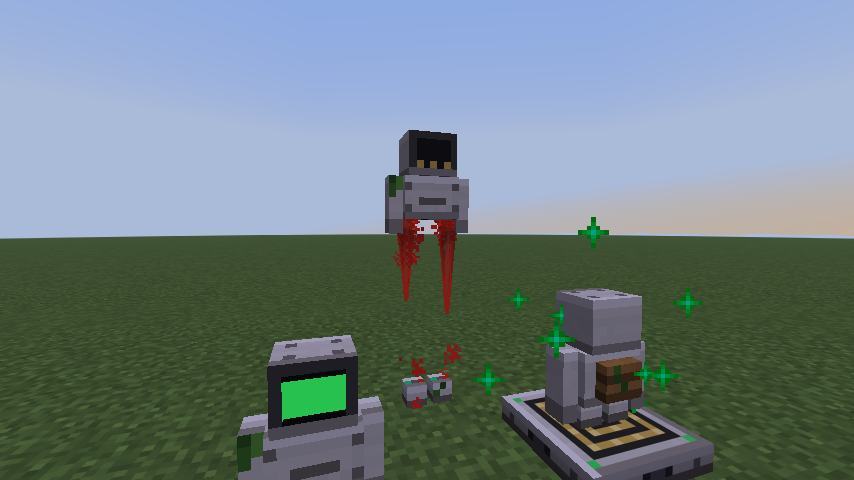
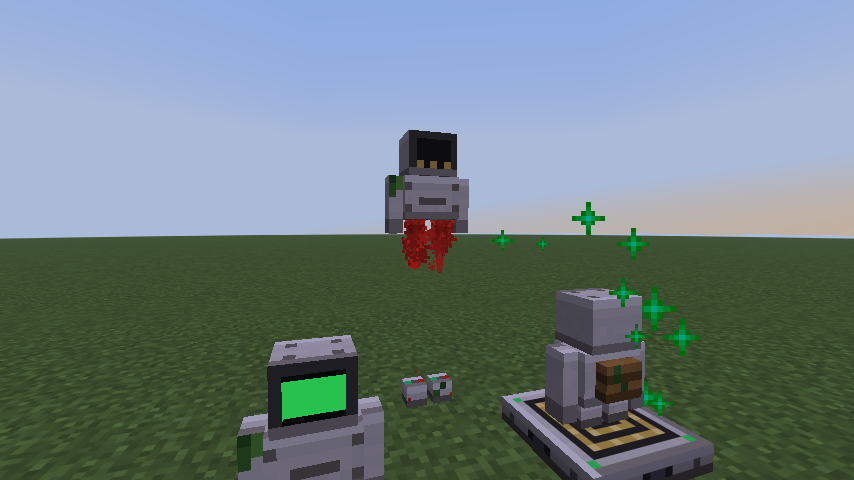
A soldered device says what it is under the mouse (the user's: the golem's robotics device is no item, so it had no tooltip): its name, that it's soldered on, and what it does, wrapped as an item's hint, from its board's layout (BoardLayout.solderedKind: any layout's soldered devices, not the golem'

diff --git a/common/src/client/java/com/payonel/modularcomputers/client/screen/CaseScreen.java b/common/src/client/java/com/payonel/modularcomputers/client/screen/CaseScreen.java
@@ -303,6 +303,46 @@ public final class CaseScreen extends AbstractContainerScreen<CaseMenu> {
 			graphics.setComponentTooltipForNextFrame(font, powerTooltip(), mouseX, mouseY);
 		}
 		busButtonTip(mouseX, mouseY).ifPresent(tip -> graphics.setTooltipForNextFrame(font, tip, mouseX, mouseY));
+		if (menu.getCarried().isEmpty()) {
+			solderedTooltip(mouseX, mouseY).ifPresent(lines -> {
+				List<net.minecraft.util.FormattedCharSequence> wrapped = new ArrayList<>();
+				for (Component line : lines) {
+					wrapped.addAll(font.split(line, TOOLTIP_WIDTH)); // (wrapped, as an item's hint is)
+				}
+				graphics.setTooltipForNextFrame(font, wrapped, mouseX, mouseY);
+			});
+		}
+	}
+
+	/** Where a soldered device sits on the board (its lane's connector's place), or an empty area for a lane without one. */
+	public Viewport soldered(int lane) {
+		if (!menu.tier().soldered(lane)) {
+			return new Viewport(0, 0, 0, 0);
+		}
+		Viewport at = slotArea(CaseMenu.EXP_SLOTS + lane);
+		return new Viewport(at.x() - SOLDERED_MARGIN, at.y() - SOLDERED_MARGIN, at.width() + 2 * SOLDERED_MARGIN, at.height() + 2 * SOLDERED_MARGIN);
+	}
+
+	/** The widest a soldered device's tooltip's lines get before they wrap, in GUI units. */
+	private static final int TOOLTIP_WIDTH = 200;
+	/** How far round its connector's slot a soldered chip reaches, in GUI units (its art's pins). */
+	private static final int SOLDERED_MARGIN = 2;
+
+	/**
+	 * What the soldered device under the mouse is (the user's: it's no item, so it has no item's
+	 * tooltip): its name, that it's soldered on, and what it does, as an item's hint does.
+	 */
+	public Optional<List<Component>> solderedTooltip(double mouseX, double mouseY) {
+		for (int lane = 0; lane < CaseMenu.LANES; lane++) {
+			String kind = menu.tier().solderedKind(lane);
+			if (kind != null && soldered(lane).contains(mouseX, mouseY)) {
+				String key = "gui.modularcomputers.soldered." + kind;
+				return Optional.of(List.of(Component.translatable(key),
+					Component.translatable("gui.modularcomputers.soldered").withStyle(net.minecraft.ChatFormatting.GRAY),
+					Component.translatable(key + ".about").withStyle(net.minecraft.ChatFormatting.GRAY)));
+			}
+		}
+		return Optional.empty();
 	}
 
 	/** The one-word tip for the bus order panel's button under the mouse: View, Disconnect, Up, ... */

diff --git a/common/src/main/java/com/payonel/modularcomputers/entity/BotGolem.java b/common/src/main/java/com/payonel/modularcomputers/entity/BotGolem.java
@@ -100,12 +100,14 @@ public final class BotGolem extends PathfinderMob implements BoardHolder, MenuPr
 	private static final double HOVER_DRAG = 0.6;
 	/** A drift slower than this, in blocks a tick, is still. */
 	private static final double DRIFT = 0.005;
-	/** Its leg sockets, each this far to its side of its middle, in blocks: where its beams come from. */
-	private static final double SOCKET_SIDE = 0.2;
+	/** Its leg sockets, each this far to its side of its middle, in blocks: where its legs' tops are (BotGolemModel's, 2 pixels), and its beams come from. */
+	public static final float SOCKET_SIDE = 2 / 16f;
 	/** Its beams: red, as its sockets' redstone (scripts/art/bot_golem_textures.py's clamps), and how many motes a socket a tick. */
 	private static final int BEAM_COLOR = 0xE8281E;
 	private static final float BEAM_SIZE = 0.9f;
 	private static final int BEAM_MOTES = 3;
+	/** How far under its sockets its sparks start, in blocks (round the beam's middle). */
+	private static final double BEAM_SPARKS_DOWN = 0.15;
 	private static final String HOVERING_SAVED = "hovering";
 	/** Its legs' height, in blocks: three pixels (its model's); without them it's that much shorter. */
 	public static final float LEG_HEIGHT = 3 / 16f;
@@ -649,7 +651,7 @@ public final class BotGolem extends PathfinderMob implements BoardHolder, MenuPr
 		double sideZ = -Mth.sin(yaw) * SOCKET_SIDE;
 		var mote = new net.minecraft.core.particles.DustParticleOptions(BEAM_COLOR, BEAM_SIZE);
 		for (int side = -1; side <= 1; side += 2) {
-			server.sendParticles(mote, getX() + side * sideX, getY(), getZ() + side * sideZ, BEAM_MOTES, 0.03, 0.15, 0.03, 0);
+			server.sendParticles(mote, getX() + side * sideX, getY() - BEAM_SPARKS_DOWN, getZ() + side * sideZ, BEAM_MOTES, 0.02, 0.08, 0.02, 0);
 		}
 	}
 

diff --git a/fabric/src/gametest/java/com/payonel/modularcomputers/gametest/BotGolemClientGameTest.java b/fabric/src/gametest/java/com/payonel/modularcomputers/gametest/BotGolemClientGameTest.java
@@ -248,6 +248,17 @@ public class BotGolemClientGameTest implements FabricClientGameTest {
 			context.getInput().setCursorPos(0, 0); // (off the board: no part's tooltip in the picture)
 			context.waitTicks(2);
 			context.takeScreenshot("bot-golem-parts");
+			// Its soldered robotics device, under the mouse: what it is (the user's: it's no item, so it has no item's tooltip).
+			CaseClientGameTest.moveCursorTo(context, screen -> ((com.payonel.modularcomputers.client.screen.CaseScreen) screen).soldered(com.payonel.modularcomputers.machine.GolemLayout.ROBOTICS_LANE));
+			context.waitTicks(2);
+			String soldered = context.computeOnClient(c -> {
+				var screen = (com.payonel.modularcomputers.client.screen.CaseScreen) c.gui.screen();
+				var at = screen.soldered(com.payonel.modularcomputers.machine.GolemLayout.ROBOTICS_LANE);
+				return screen.solderedTooltip(at.x() + at.width() / 2.0, at.y() + at.height() / 2.0).map(lines -> lines.stream().map(line -> line.getString()).toList().toString()).orElse("none");
+			});
+			check(soldered.contains("Robotics Device") && soldered.contains("/dev/robotics0"), "its soldered device's tooltip: " + soldered);
+			context.takeScreenshot("bot-golem-soldered");
+			context.getInput().setCursorPos(0, 0);
 			// A golem in hand: sneaking and using it opens its parts view, on the item (the user's), its hands too.
 			context.getInput().pressKey(com.mojang.blaze3d.platform.InputConstants.KEY_ESCAPE);
 			context.waitFor(c -> c.gui.screen() == null);

diff --git a/common/src/client/java/com/payonel/modularcomputers/client/entity/BotGolemRenderer.java b/common/src/client/java/com/payonel/modularcomputers/client/entity/BotGolemRenderer.java
@@ -48,8 +48,8 @@ public final class BotGolemRenderer extends MobRenderer<BotGolem, BotGolemRender
 	private static final float CORE_WIDTH = 0.4f;
 	private static final float CORE_LENGTH = 0.75f;
 	/** Each socket's beam: how far to its side of its middle, how long, how wide at the socket and at the tip (half widths), in blocks. */
-	private static final float SOCKET_SIDE = 0.2f;
-	private static final float BEAM_LENGTH = 0.9f;
+	private static final float SOCKET_SIDE = BotGolem.SOCKET_SIDE;
+	private static final float BEAM_LENGTH = 0.5f;
 	private static final float BEAM_ROOT = 0.07f;
 	private static final float BEAM_TIP = 0.015f;
 	/** How much its length flickers (a share of it), and how fast (a tick's phase). */

diff --git a/common/src/main/java/com/payonel/modularcomputers/machine/BoardLayout.java b/common/src/main/java/com/payonel/modularcomputers/machine/BoardLayout.java
@@ -30,6 +30,11 @@ public interface BoardLayout {
 		return false;
 	}
 
+	/** What's soldered onto a lane, as its lang keys name it ({@code gui.modularcomputers.soldered.<kind>}), or null. */
+	default String solderedKind(int lane) {
+		return null;
+	}
+
 	/** Whether its screen slot takes a screen of {@code tier}. */
 	default boolean takesScreen(com.payonel.modularcomputers.device.TerminalTier tier) {
 		return true;

diff --git a/common/src/main/java/com/payonel/modularcomputers/machine/GolemLayout.java b/common/src/main/java/com/payonel/modularcomputers/machine/GolemLayout.java
@@ -55,6 +55,11 @@ public enum GolemLayout implements BoardLayout {
 	}
 
 	@Override
+	public String solderedKind(int lane) {
+		return lane == ROBOTICS_LANE ? "robotics" : null;
+	}
+
+	@Override
 	public boolean takesScreen(TerminalTier tier) {
 		return tier == TerminalTier.TIER_1;
 	}
